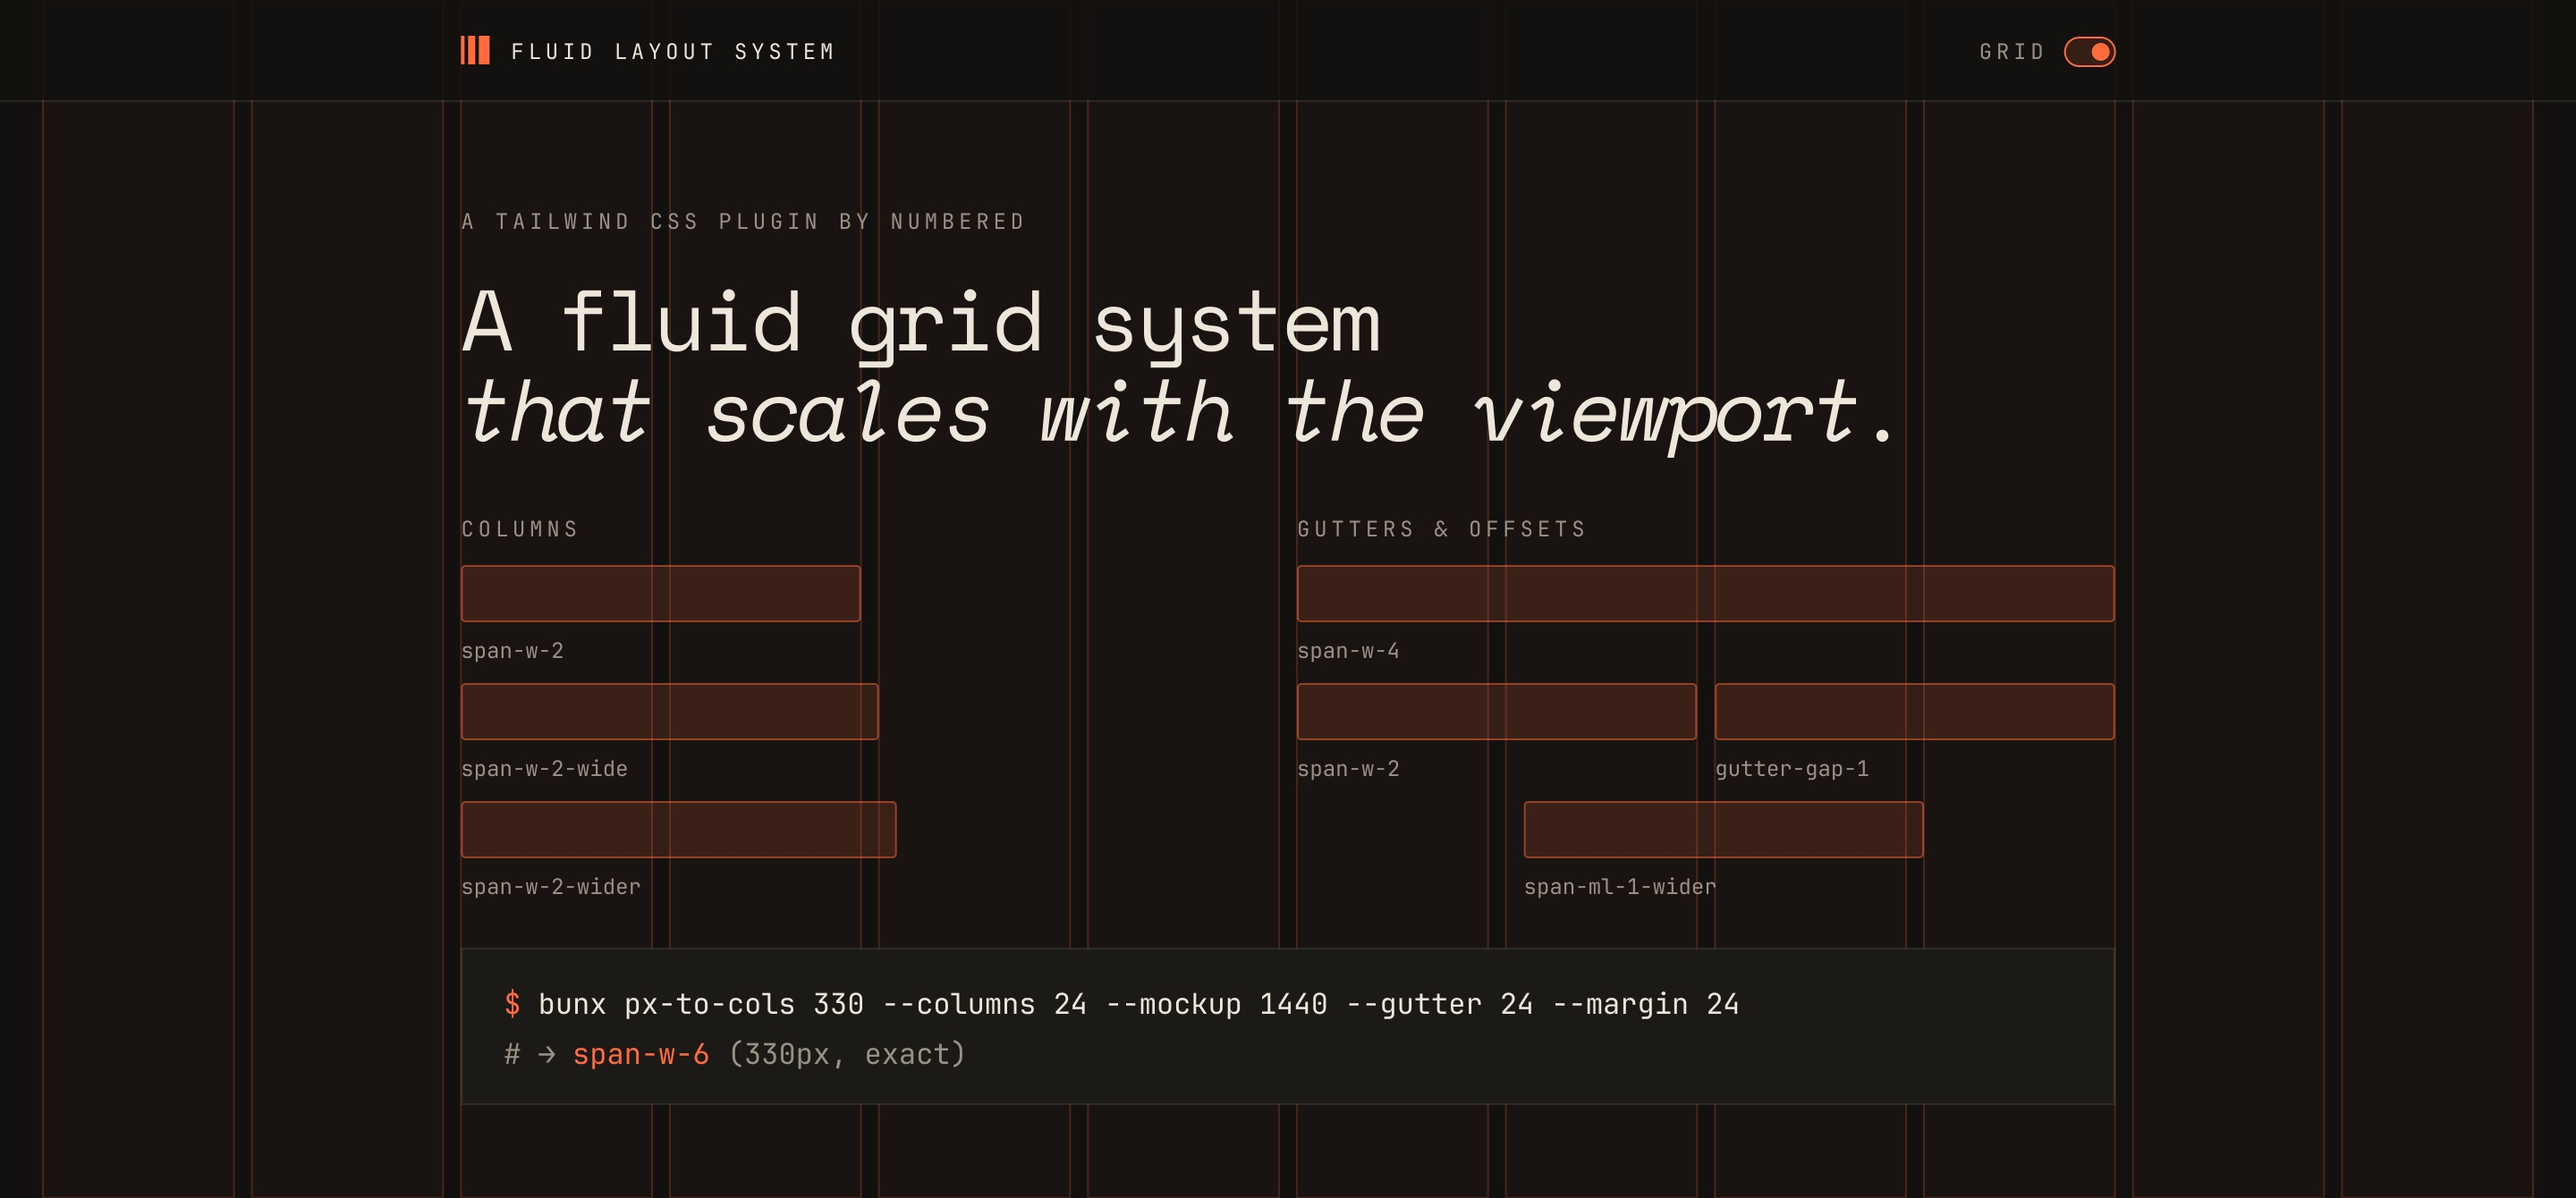
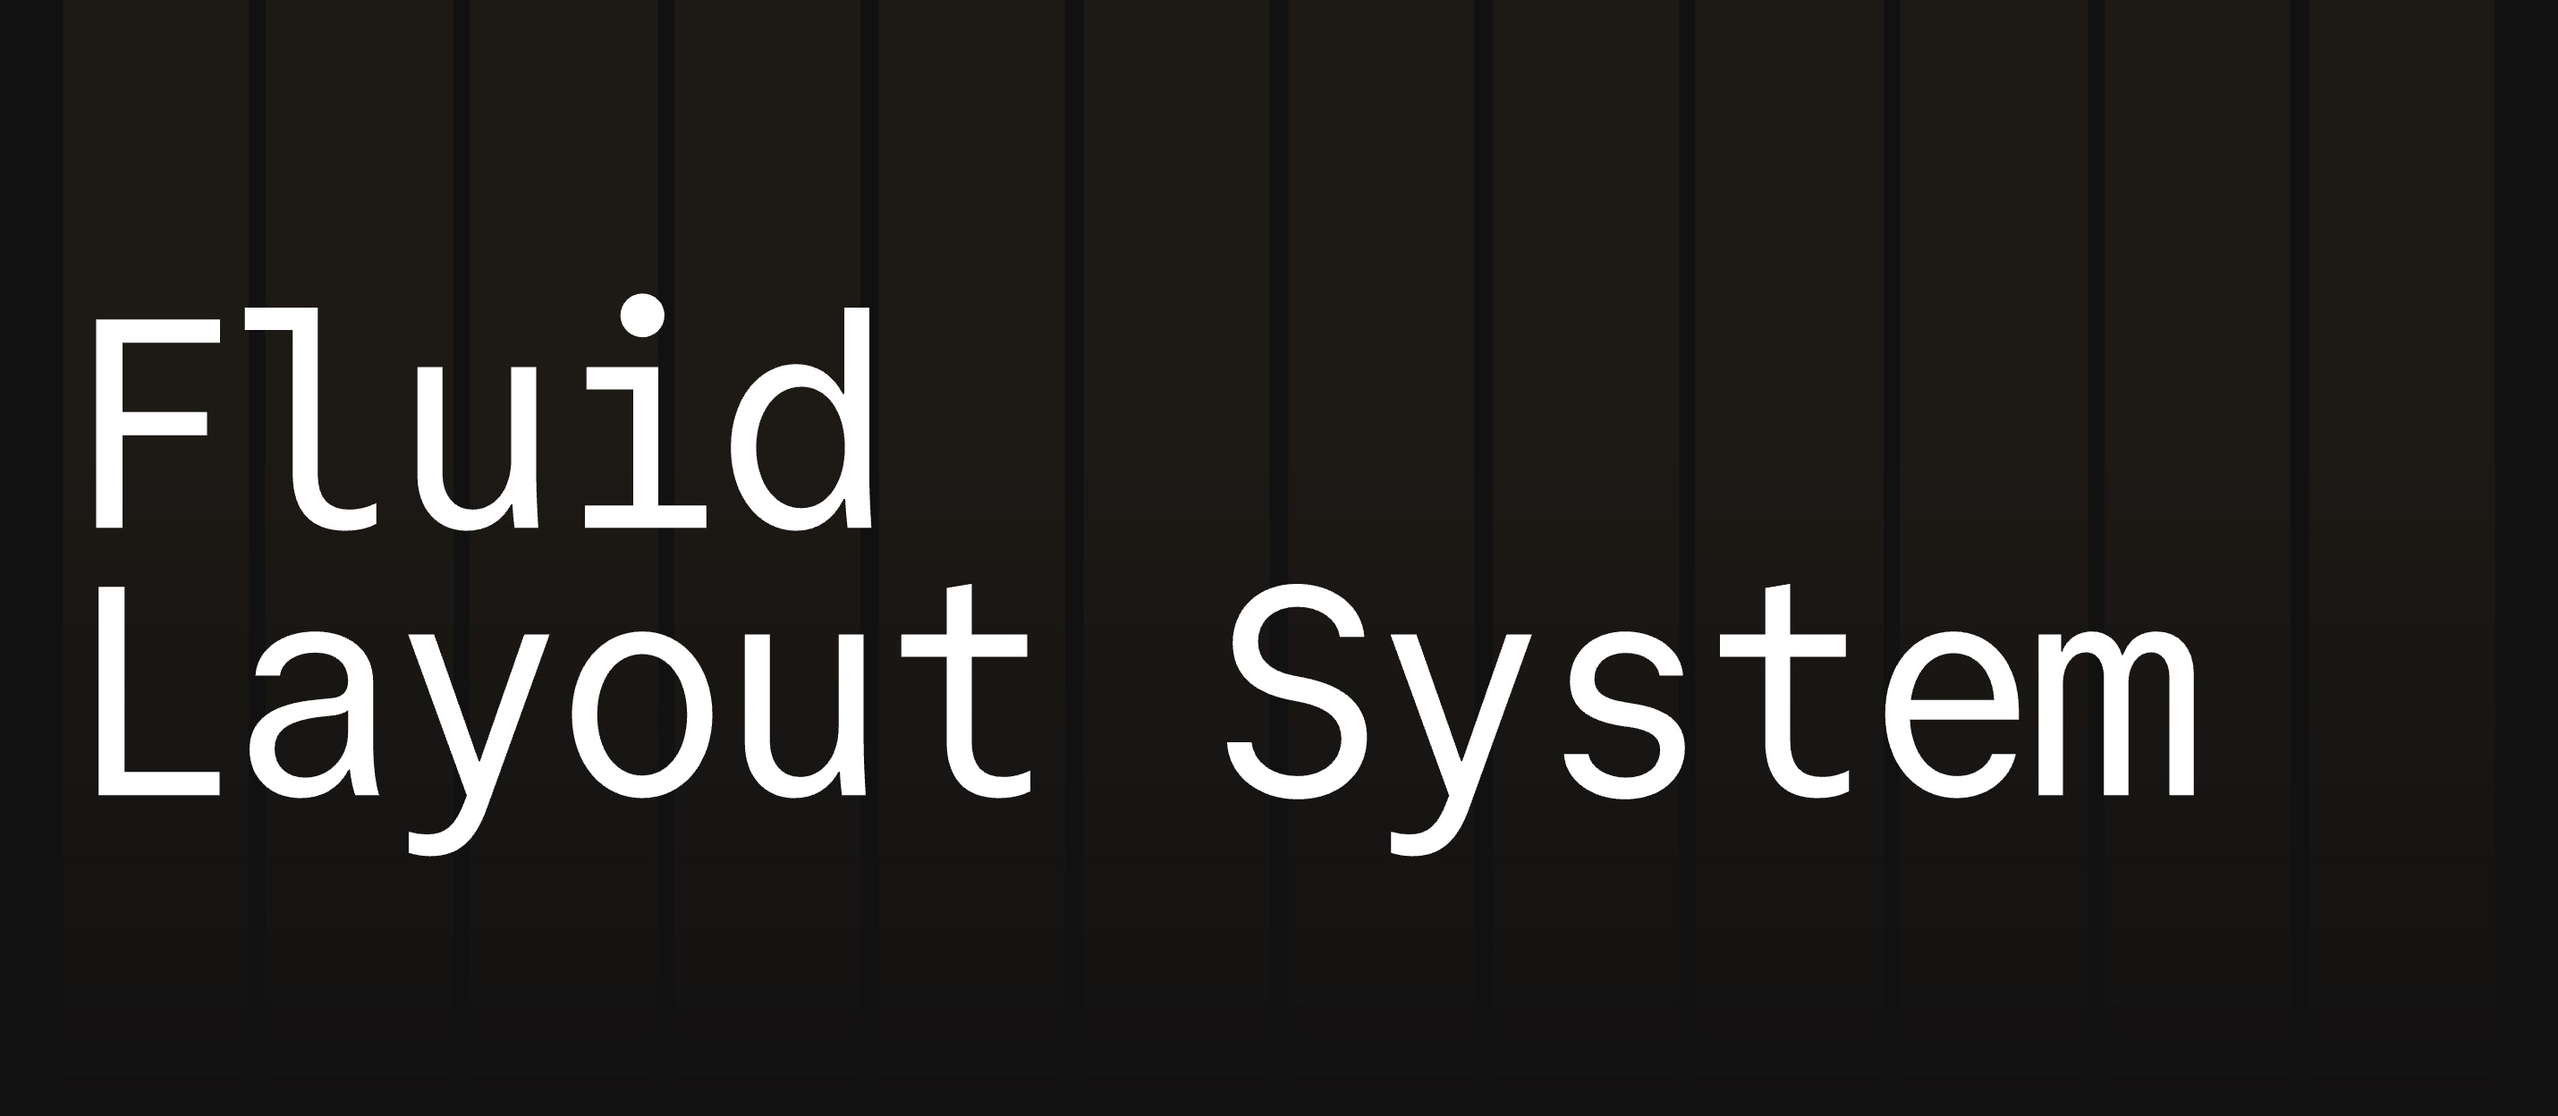
docs: absolute hero image URL for npm

diff --git a/README.md b/README.md
@@ -1,6 +1,6 @@
 # Tailwind CSS Fluid Layout System
 
-![Fluid Layout System: a fluid grid system that scales with the viewport, with span, gutter and offset utilities](docs/hero.jpg)
+![Fluid Layout System: a fluid grid system that scales with the viewport, with span, gutter and offset utilities](https://raw.githubusercontent.com/Numbered-com/tailwind-css-fluid-layout-system/main/docs/hero.jpg)
 
 A [Tailwind CSS v4](https://tailwindcss.com/) plugin that turns your design grid into fluid utilities, plus a `px-to-cols` CLI to translate mockup pixels into grid classes. 👉 [Demo](https://fls.numbered.studio)
 
@@ -11,7 +11,7 @@ Subgrid can pass the page grid down, but only if every wrapper in between is its
 ## Setup
 
 ```bash
-bun add -D @numbered/tailwind-fluid-layout-system
+bun add @numbered/tailwind-fluid-layout-system
 ```
 
 ```css
